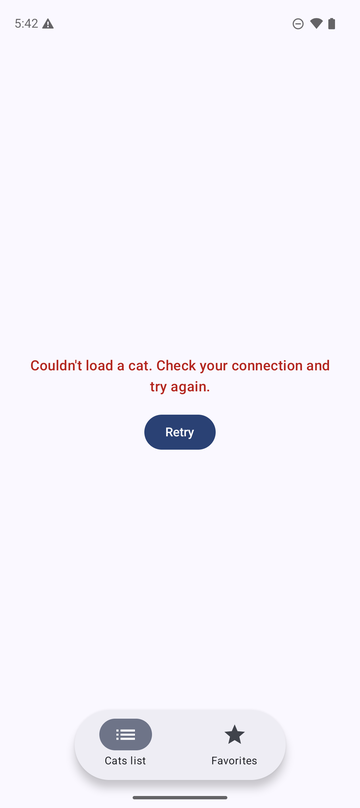
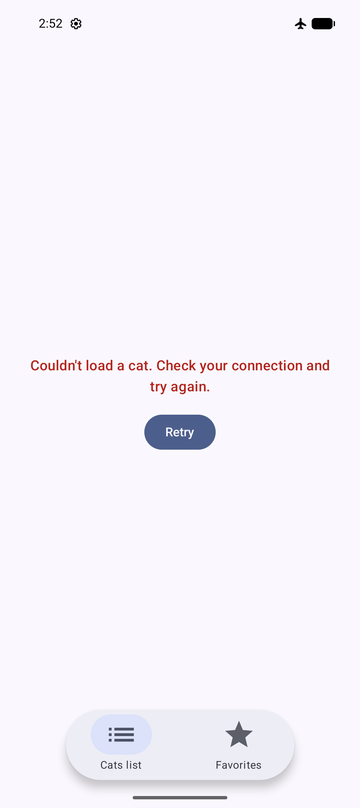
[TECH] Refresh the README's screenshots, counts and known gaps

diff --git a/README.md b/README.md
@@ -1,5 +1,7 @@
 # CatsList
 
+<img src="docs/images/app-icon.png" width="88" align="right" alt="CatsList app icon">
+
 [![CI](https://github.com/romanmahachkala05/CatsListApplication/actions/workflows/ci.yml/badge.svg?branch=dev)](https://github.com/romanmahachkala05/CatsListApplication/actions/workflows/ci.yml)
 
 An endless feed of cats from [TheCatAPI](https://developers.thecatapi.com/), with
@@ -55,7 +57,7 @@ different reason than ADR-0001 predicted).
 | Navigation | Navigation 3 (`NavDisplay`, typed `NavKey`s) |
 | DI | Hilt |
 | Async | Coroutines, Flow |
-| Network | Retrofit |
+| Network | Retrofit 3, OkHttp 5 |
 | Storage | Room, with real migrations and committed schemas — favorites only |
 | Pagination | Paging 3, paging the feed straight from the network |
 | Build | Gradle KTS, version catalog, KSP, JDK 17 |
@@ -63,16 +65,17 @@ different reason than ADR-0001 predicted).
 
 ## Tests
 
-**51 unit tests, 15 instrumented.** No mocking library — every test double is a
+**58 unit tests, 36 instrumented.** No mocking library — every test double is a
 real in-memory implementation ([ADR-0012](docs/DECISIONS.md#adr-0012)). Tests
 live beside the code they test — in the same Gradle module, same package —
 rather than in one shared test source set.
 
-The instrumented ones are not optional extras. They are the only place three
-data-loss failures can be checked, because all three are Room behavior that no
-JVM fake reproduces: that `@Transaction` really serializes concurrent writes,
-that `MIGRATION_2_3` copies every column, and that a v1 database opens instead
-of crashing.
+The instrumented ones are not optional extras. Three data-loss failures can be
+checked nowhere else, because all three are Room behavior that no JVM fake
+reproduces: that `@Transaction` really serializes concurrent writes, that
+`MIGRATION_2_3` copies every column, and that a v1 database opens instead of
+crashing. The rest are Compose UI tests — which branch each screen shows for a
+given load state, and what its cards emit when tapped.
 
 Each bug fix in this project was reproduced before being fixed, and every fix
 was checked by reverting it to confirm the new test fails — a test that cannot
@@ -81,7 +84,7 @@ fail proves nothing.
 ## Engineering notes
 
 The interesting part of this repo is not the cat list. It is
-[`docs/DECISIONS.md`](docs/DECISIONS.md): 23 decision records with the rejected
+[`docs/DECISIONS.md`](docs/DECISIONS.md): 25 decision records with the rejected
 alternative and the consequences, including two decisions superseded by a
 later one. A sample:
 
@@ -133,8 +136,10 @@ JDK 17. No API key required — TheCatAPI's search endpoint is open.
 
 ## Known gaps
 
-Tracked honestly rather than hidden: no app icon, `minifyEnabled` is off for
-release ([RELEASING.md](RELEASING.md#known-limitations)), the instrumented
-tests do not yet run in CI ([ADR-0018](docs/DECISIONS.md#adr-0018)), and Coil
+Tracked honestly rather than hidden: `minifyEnabled` is off for release, so the
+APK is neither shrunk nor obfuscated ([RELEASING.md](RELEASING.md#known-limitations));
+the instrumented tests do not yet run in CI, which is why `verifyOnDevice` is a
+local step before a release ([ADR-0018](docs/DECISIONS.md#adr-0018)); and Coil
 and Retrofit still build two separate `OkHttpClient` instances rather than
-sharing one configured client ([ADR-0006](docs/DECISIONS.md#adr-0006)).
+sharing one configured client — `NetworkModule` hands Retrofit no client, so
+each library falls back to its own default ([ADR-0006](docs/DECISIONS.md#adr-0006)).
